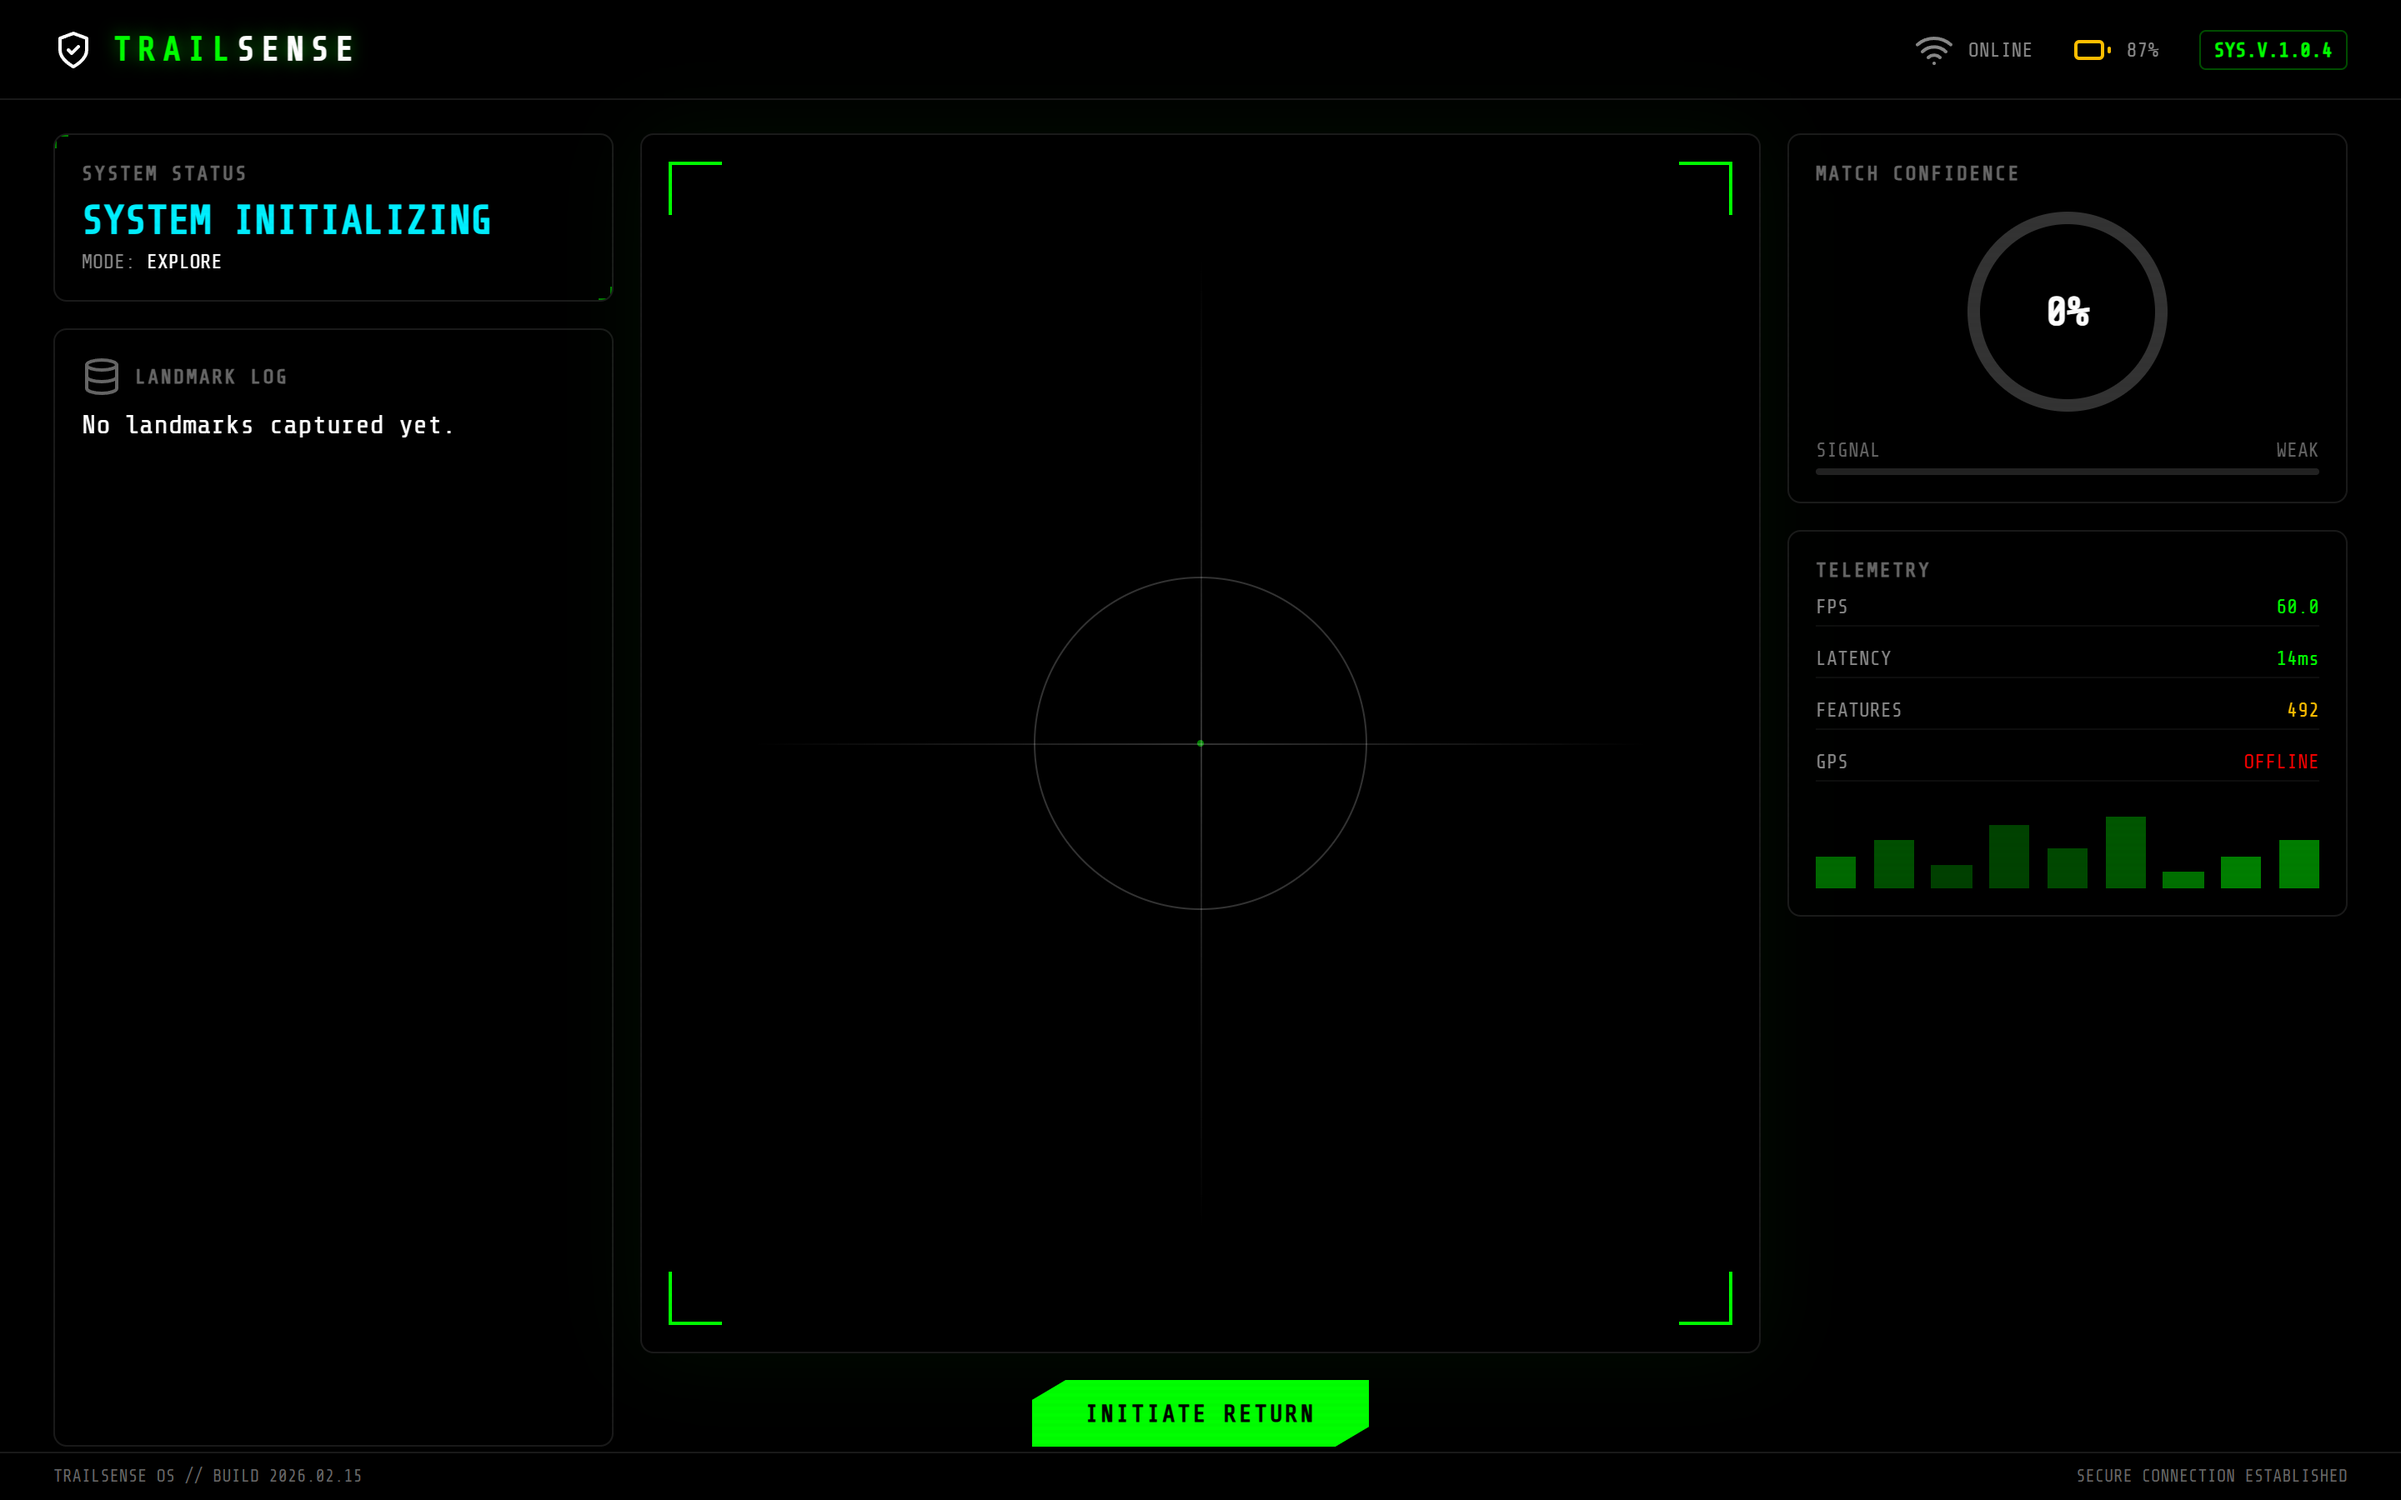
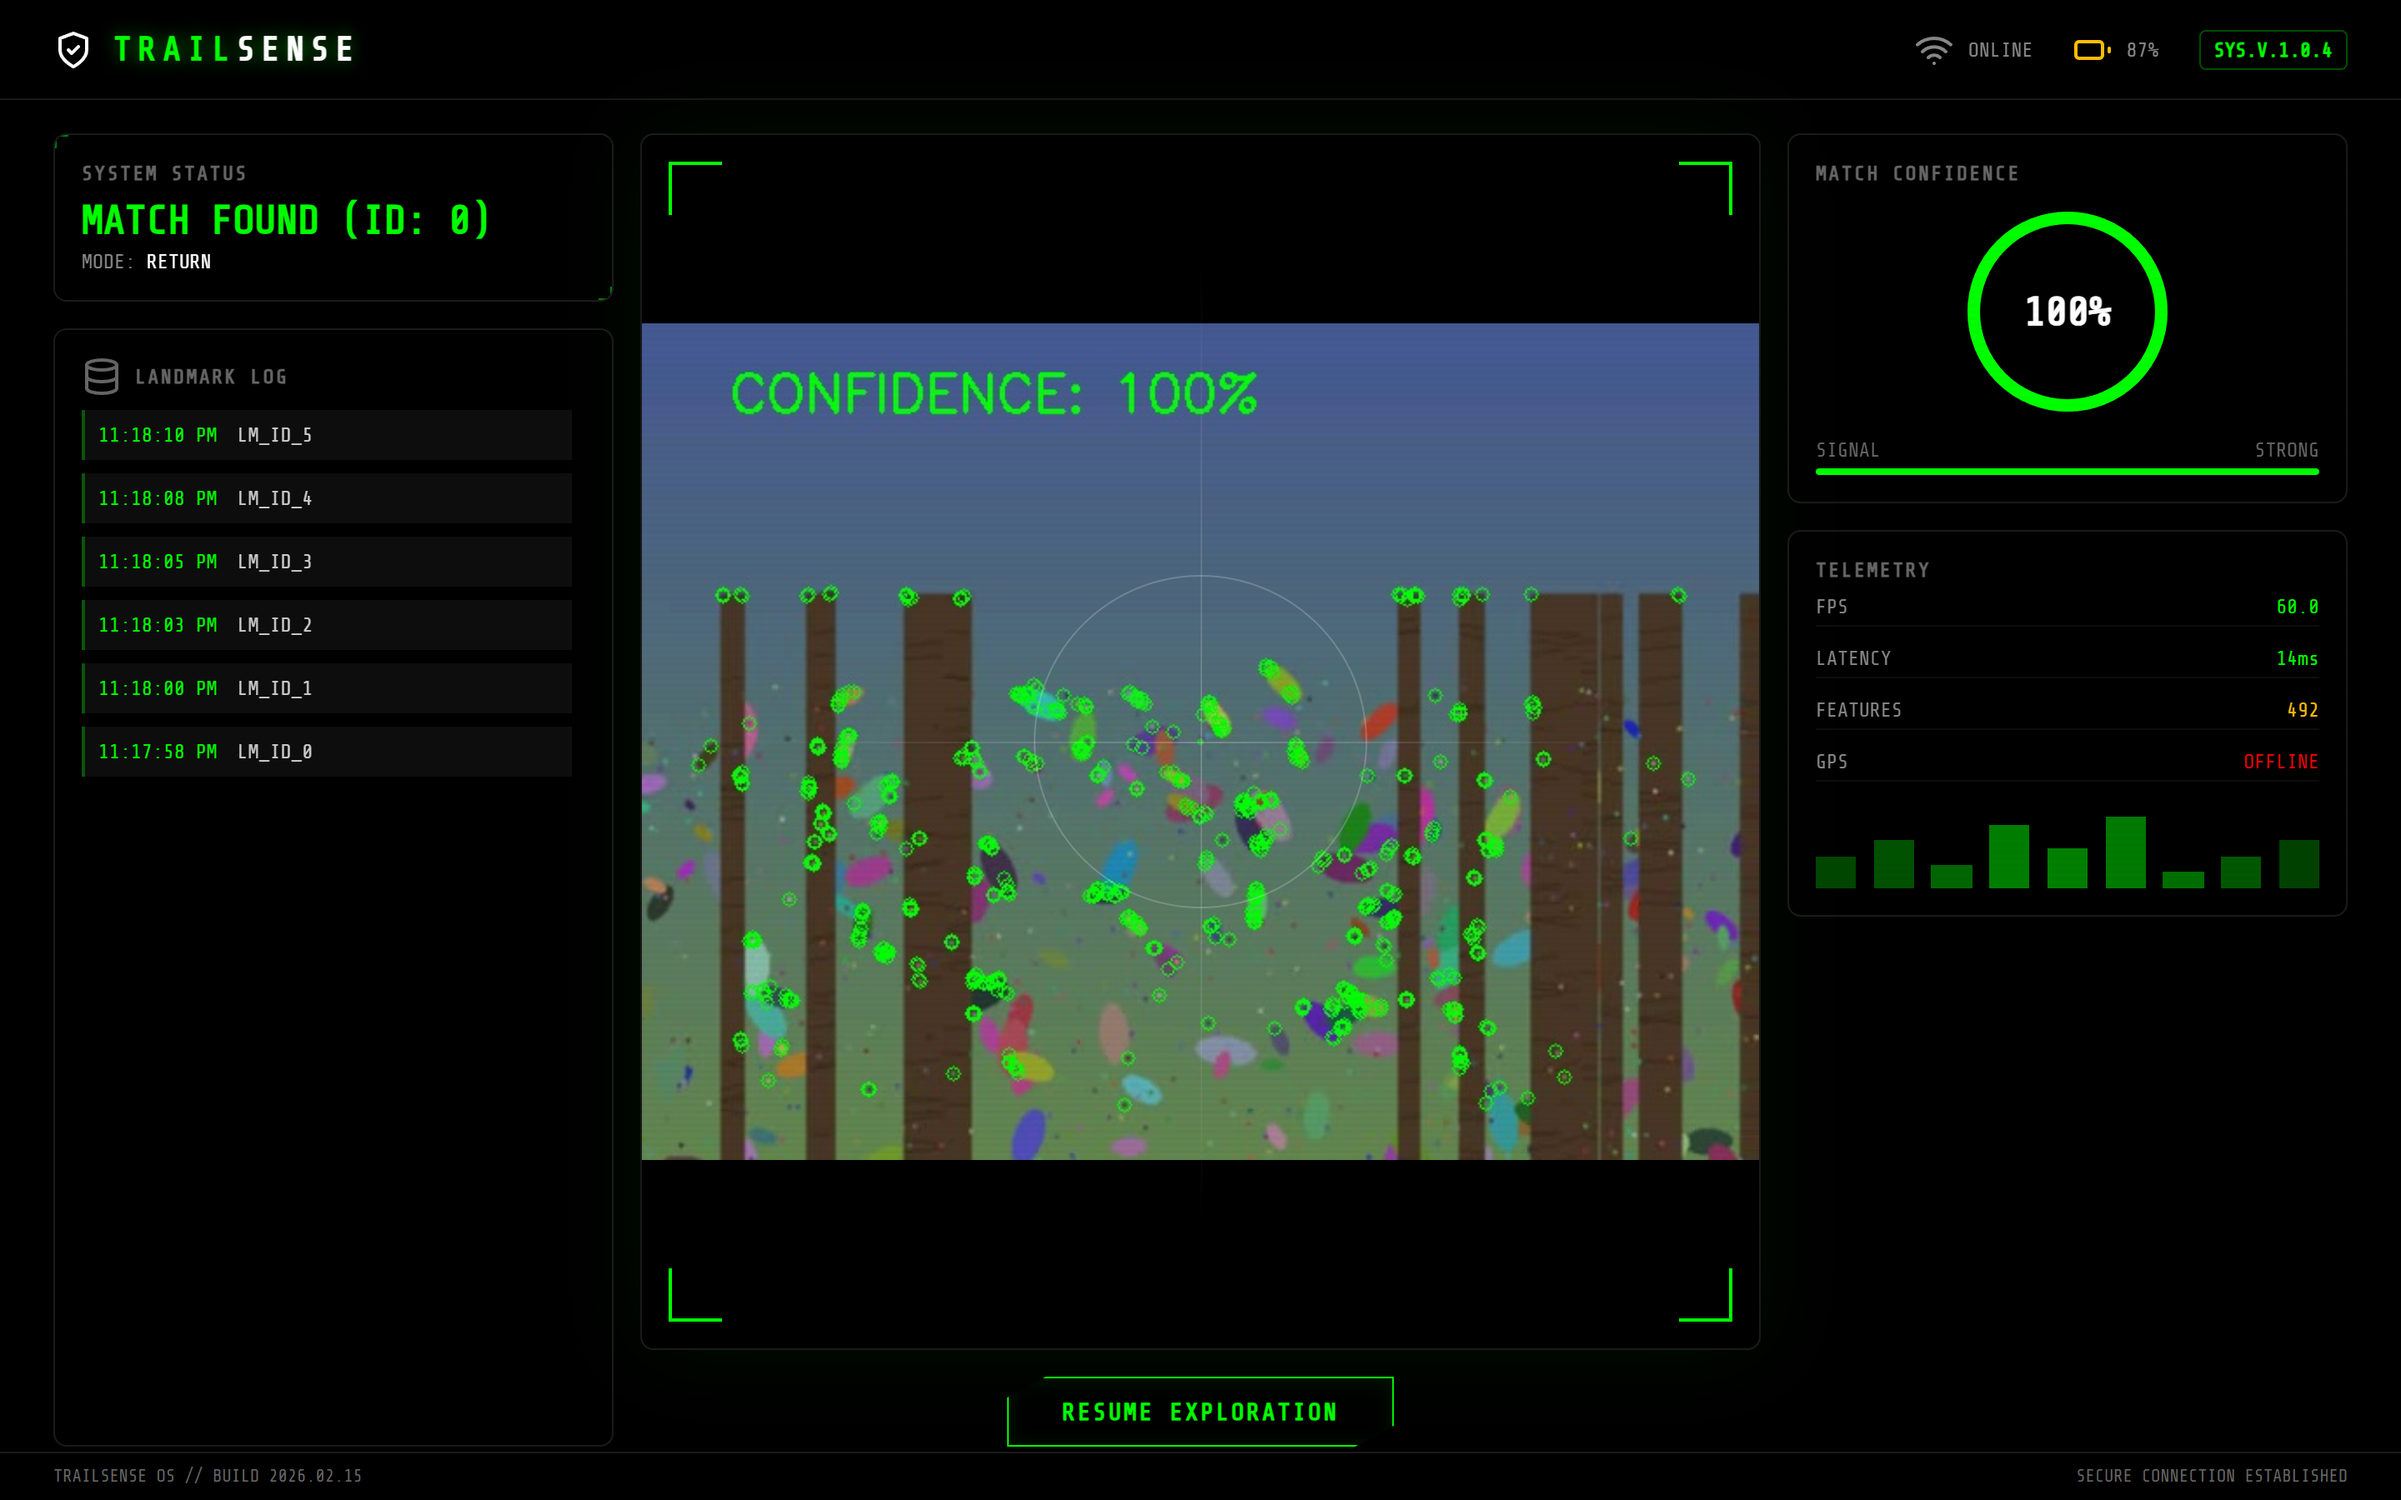
Replace README screenshot with a RETURN-mode capture
Shows the full loop: six landmarks logged during EXPLORE, the current
frame matched against them in RETURN, keypoint overlay and a 100%
confidence score.

The machine has no camera, so the video source was a synthetic panning
scene rather than trail footage. The caption says so.

diff --git a/README.md b/README.md
@@ -12,9 +12,12 @@ Project page: [devpost.com/software/trailsense-zit7ox](https://devpost.com/softw
 
 ![TrailSense dashboard](docs/dashboard.png)
 
-*The dashboard in EXPLORE mode, backend connected, before any landmark is captured. Captured on a
-laptop with no camera attached, so the feed panel is empty; the telemetry tile on the right (FPS,
-latency, feature count, battery) is static placeholder markup, not live measurement.*
+*The dashboard in RETURN mode: six landmarks captured on the way out, the current frame matched
+against them, ORB keypoints drawn on the feed, confidence at 100%. The vision pipeline, landmark
+log and confidence score are real output from `vision_core.py`. The camera input is not: this was
+recorded on a laptop with no camera, so a synthetic panning scene was fed in as the video source in
+place of a trail. The telemetry tile on the right (FPS, latency, feature count, battery) is static
+placeholder markup, not live measurement.*
 
 ## What it does
 
